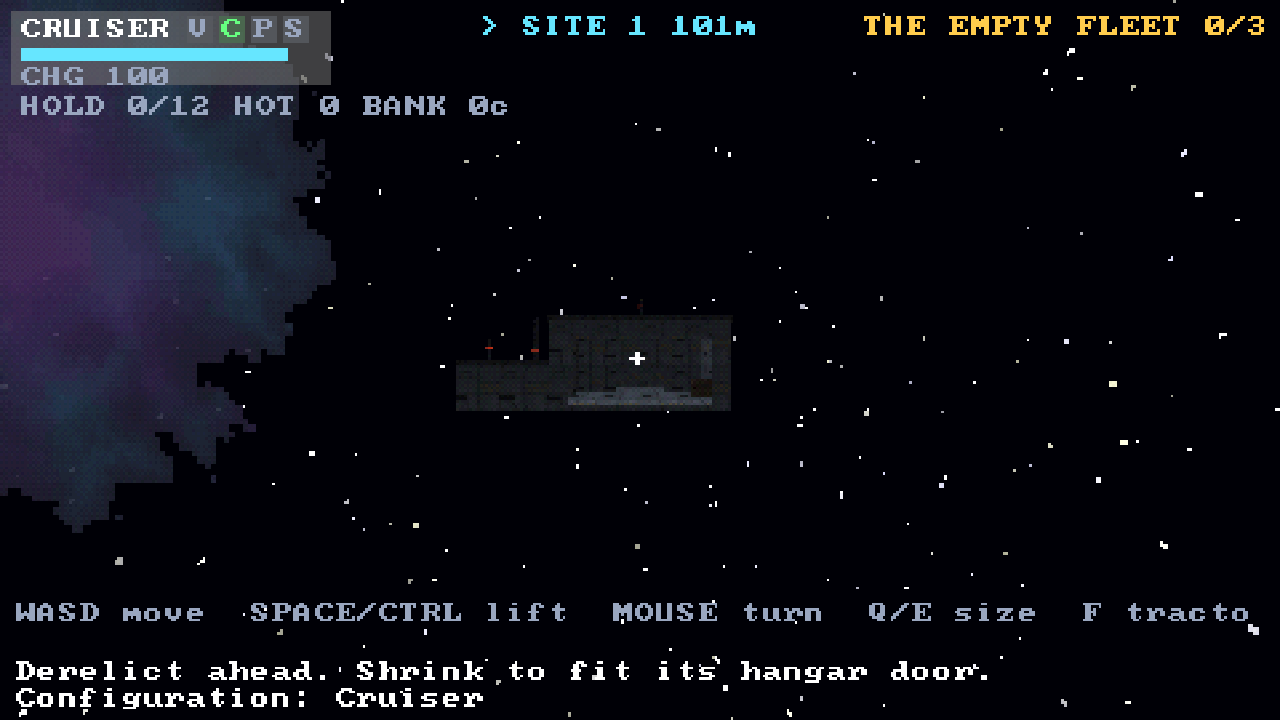
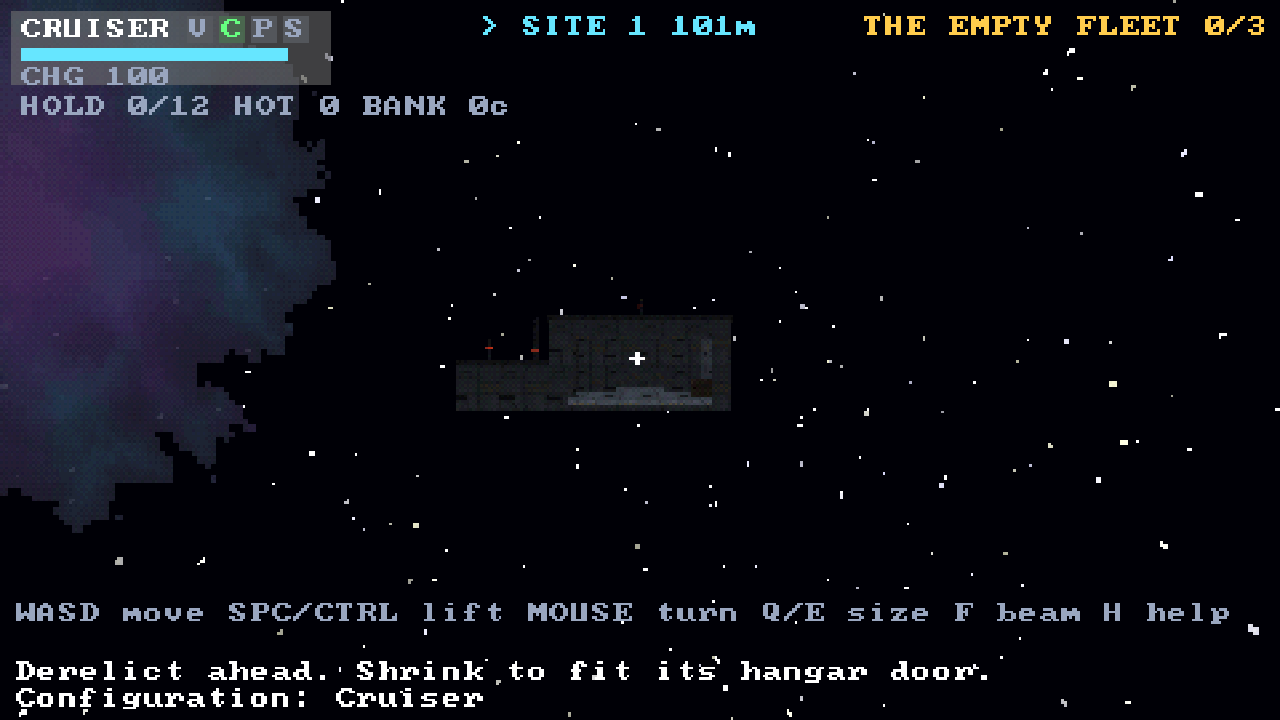
Fix math KAT buffer overflow found by ASan (full 4,096-line vector), split mod failure formatting to silence -O2 warnings, refresh screenshots

Changed region(s): [[0.1875, 0.825, 0.9688, 0.8861]]

diff --git a/engine/src/core/sx_mod.c b/engine/src/core/sx_mod.c
@@ -188,13 +188,22 @@ int sx_modset_scan(sx_modset *s, const char *base_dir, const char *mods_dir, con
   return 1;
 }
 
-static void fail(sx_mod *m, const char *fmt, const char *a, int x, int y) {
-  char buf[256];
-  if (a) snprintf(buf, sizeof buf, fmt, a);
-  else snprintf(buf, sizeof buf, fmt, x, y);
+static void fail_msg(sx_mod *m, const char *buf) {
   copy_str(m->status, sizeof m->status, buf);
   m->ok = 0;
   SX_WARN("mod '%s' not loaded: %s", m->id, buf);
+}
+
+static void fail(sx_mod *m, const char *fmt, const char *a) {
+  char buf[256];
+  snprintf(buf, sizeof buf, fmt, a);
+  fail_msg(m, buf);
+}
+
+static void fail_api(sx_mod *m, int api, int engine_api) {
+  char buf[256];
+  snprintf(buf, sizeof buf, "incompatible API %d (engine %d)", api, engine_api);
+  fail_msg(m, buf);
 }
 
 int sx_modset_resolve(sx_modset *s, int engine_api) {
@@ -204,7 +213,7 @@ int sx_modset_resolve(sx_modset *s, int engine_api) {
     sx_mod *m = &s->mods[i];
     m->ok = 1;
     copy_str(m->status, sizeof m->status, "ok");
-    if (m->api != engine_api) fail(m, "incompatible API %d (engine %d)", NULL, m->api, engine_api);
+    if (m->api != engine_api) fail_api(m, m->api, engine_api);
   }
   /* Missing/unsatisfied dependencies propagate until stable. */
   do {
@@ -215,17 +224,17 @@ int sx_modset_resolve(sx_modset *s, int engine_api) {
       for (j = 0; j < m->depends.count; j++) {
         int d = sx_modset_find(s, m->depends.items[j]);
         if (d < 0) {
-          fail(m, "missing dependency %s", m->depends.items[j], 0, 0);
+          fail(m, "missing dependency %s", m->depends.items[j]);
           changed = 1;
           break;
         }
         if (!sx_version_satisfies(s->mods[d].version, m->depends_req.items[j])) {
-          fail(m, "dependency %s version not satisfied", m->depends.items[j], 0, 0);
+          fail(m, "dependency %s version not satisfied", m->depends.items[j]);
           changed = 1;
           break;
         }
         if (!s->mods[d].ok && strncmp(s->mods[d].status, "dependency cycle", 16) != 0) {
-          fail(m, "dependency %s failed to load", m->depends.items[j], 0, 0);
+          fail(m, "dependency %s failed to load", m->depends.items[j]);
           changed = 1;
           break;
         }
@@ -267,7 +276,7 @@ int sx_modset_resolve(sx_modset *s, int engine_api) {
       }
     }
     for (i = 0; i < s->count; i++)
-      if (s->mods[i].ok && !placed[i]) fail(&s->mods[i], "dependency cycle: %s", cyc, 0, 0);
+      if (s->mods[i].ok && !placed[i]) fail(&s->mods[i], "dependency cycle: %s", cyc);
   }
   return s->order_count;
 }

diff --git a/tests/c/test_core.c b/tests/c/test_core.c
@@ -43,7 +43,7 @@ static unsigned long long bits(double d) {
 }
 
 TEST(math_known_answers) {
-  static char buf[256 * 1024];
+  static char buf[512 * 1024];
   size_t o = 0;
   int i;
   for (i = 0; i < 4096; i++) {
